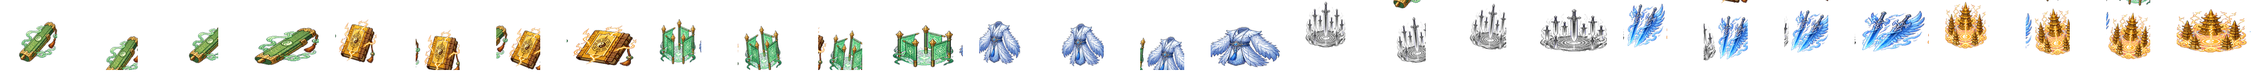
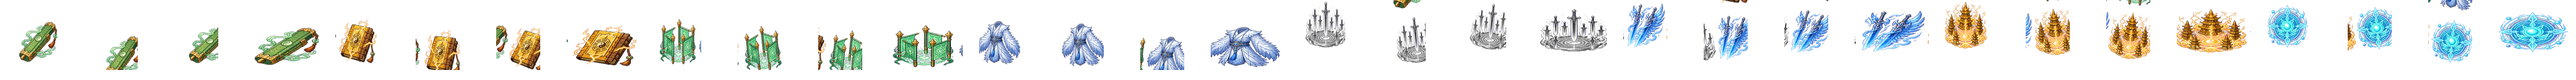
fix(战斗表现): 完善妖王与术法验收语义

diff --git a/src/game/phaser/createBattleSession.ts b/src/game/phaser/createBattleSession.ts
@@ -236,6 +236,7 @@ export class QingShiRidgeScene extends Phaser.Scene {
   private radarLabel!: Phaser.GameObjects.Text
   private spiritNodeLabels: Phaser.GameObjects.Text[] = []
   private playerSprite!: Phaser.GameObjects.Image
+  private spellPresentationSprite!: Phaser.GameObjects.Image
   private inputIntent = createInputIntent()
   private progress: RunProgress = createRunProgress()
   private player = { x: WORLD_SIZE / 2, y: WORLD_SIZE / 2, health: 100, maxHealth: 100 }
@@ -384,6 +385,11 @@ export class QingShiRidgeScene extends Phaser.Scene {
       .image(this.player.x, this.player.y, 'qingshi-actors', 0)
       .setDisplaySize(84, 84)
       .setDepth(4)
+    this.spellPresentationSprite = this.add
+      .image(this.player.x, this.player.y, 'artifact-combat-effects', 28)
+      .setDisplaySize(112, 112)
+      .setDepth(5)
+      .setVisible(false)
     this.spiritNodeLabels = this.terrainLayout.spiritNodes.map((node) => this.add.text(node.x, node.y + 36, '灵脉石坛', {
       color: '#d6d3d1',
       fontFamily: '"Noto Sans SC", sans-serif',
@@ -2172,7 +2178,7 @@ export class QingShiRidgeScene extends Phaser.Scene {
         7,
       )
       if (fountainActive) {
-        const pulse = this.reducedMotion ? 0.55 : 0.4 + Math.sin(Date.now() / 220) * 0.2
+        const pulse = this.reducedMotion ? 0.55 : 0.4 + Math.sin(this.presentationElapsedMs / 220) * 0.2
         this.graphics.fillStyle(0x22d3ee, 0.1 + pulse * 0.12).fillCircle(node.x, node.y, node.radius + 24)
         this.graphics.lineStyle(3, 0x67e8f9, 0.8).strokeCircle(node.x, node.y, node.radius + 24)
         this.graphics.lineStyle(3, 0xa7f3d0, 0.95).arc(
@@ -2188,7 +2194,7 @@ export class QingShiRidgeScene extends Phaser.Scene {
     // Render the hostile 妖巢 as an entity with a sharp silhouette, not a
     // generic red interaction circle.
     if (this.demonLair.phase === 'travel' || this.demonLair.phase === 'battle' || this.demonLair.phase === 'destroyed') {
-      const pulse = this.reducedMotion ? 0.7 : 0.55 + Math.sin(Date.now() / 200) * 0.22
+      const pulse = this.reducedMotion ? 0.7 : 0.55 + Math.sin(this.presentationElapsedMs / 200) * 0.22
       if (!this.demonLair.destroyed) {
         this.graphics.fillStyle(0x4c0519, 0.82).fillTriangle(
           this.demonLair.x - 34,
@@ -2349,6 +2355,22 @@ export class QingShiRidgeScene extends Phaser.Scene {
           symbolY + 5,
         )
       }
+    }
+    const spellVisualActive = this.shieldRemainingMs > 0
+      || this.spellCastVisualRemainingMs > 0
+      || this.spellImpactPulseRemainingMs > 0
+      || this.spellEndVisualRemainingMs > 0
+    if (spellVisualActive) {
+      const spellFrame = 28 + (this.reducedMotion ? 0 : Math.floor(this.presentationElapsedMs / 120) % 4)
+      this.spellPresentationSprite
+        .setTexture('artifact-combat-effects', spellFrame)
+        .setPosition(this.player.x, this.player.y)
+        .setDisplaySize(this.shieldRemainingMs > 0 ? 112 : 94, this.shieldRemainingMs > 0 ? 112 : 94)
+        .setAngle(this.reducedMotion ? 0 : this.presentationElapsedMs / 80)
+        .setAlpha(this.shieldRemainingMs > 0 ? 0.72 : 0.9)
+        .setVisible(true)
+    } else {
+      this.spellPresentationSprite.setVisible(false)
     }
     if (this.spellCastVisualRemainingMs > 0 || this.spellImpactPulseRemainingMs > 0 || this.spellEndVisualRemainingMs > 0) {
       const signature = resolveCombatVisualSignature('xuan-guang-hu-shen-jue')

diff --git a/src/game/domain/combatPresentation.test.ts b/src/game/domain/combatPresentation.test.ts
@@ -145,12 +145,32 @@ describe('semantic combat presentation', () => {
 
     expect(enraged.halo).toBe('cracked-moon')
     expect(enraged.textureKey).toBe('qingshi-combat-actors')
-    expect(enraged.frame).toBe(10)
+    expect(enraged.frame).toBe(11)
     expect(enraged.shadowSplit).toBe(true)
     expect(enraged.telegraph).toBe('assault-lane')
     expect(breach.halo).toBe('breach-open')
     expect(breach.moonMarkOpen).toBe(true)
     expect(breach.shake).toBe(0)
+
+    const bossIdleStart = resolveBossPresentation({
+      phase: 'combat',
+      attack: 'none',
+      introRemainingMs: 0,
+      howlRemainingMs: 0,
+      breachRemainingMs: 0,
+      elapsedMs: 0,
+      reducedMotion: false,
+    })
+    const bossIdleLater = resolveBossPresentation({
+      phase: 'combat',
+      attack: 'none',
+      introRemainingMs: 0,
+      howlRemainingMs: 0,
+      breachRemainingMs: 0,
+      elapsedMs: 240,
+      reducedMotion: false,
+    })
+    expect(bossIdleLater.frame).not.toBe(bossIdleStart.frame)
   })
 
   it('maps every implemented artifact to a source motif and a distinct macro shape', () => {
@@ -191,10 +211,12 @@ describe('semantic combat presentation', () => {
       ['opening-00-30', 30_000],
       ['surge-02-00', 120_000],
       ['event-04-00', 240_000],
-      ['boss-08-30', 510_000],
+      ['density-08-30', 510_000],
+      ['boss-10-00', 600_000],
     ])
     expect(resolveCombatPresentationCheckpoint(29_999)).toBeNull()
     expect(resolveCombatPresentationCheckpoint(30_000)?.id).toBe('opening-00-30')
-    expect(resolveCombatPresentationCheckpoint(510_000)?.id).toBe('boss-08-30')
+    expect(resolveCombatPresentationCheckpoint(510_000)?.id).toBe('density-08-30')
+    expect(resolveCombatPresentationCheckpoint(600_000)?.id).toBe('boss-10-00')
   })
 })

diff --git a/src/game/domain/combatPresentation.ts b/src/game/domain/combatPresentation.ts
@@ -345,21 +345,22 @@ export function resolveBossPresentation(input: BossPresentationInput): BossPrese
   const shake = input.reducedMotion || isArrival || impactRemainingMs <= 0
     ? 0
     : Math.sin(input.elapsedMs / 28) * (isEnraged ? 1.5 : 0.8) * Math.min(1, impactRemainingMs / 120)
+  const animationStep = input.reducedMotion ? 0 : Math.floor(Math.max(0, input.elapsedMs) / 120)
   const frame = isEnraged
     ? input.breachRemainingMs > 0
       ? 11
       : input.attack === 'assault' || input.attack === 'assault-warning'
-        ? 10
+        ? 10 + animationStep % 2
         : input.attack === 'charge' || input.attack === 'charge-warning'
-          ? 9
-          : 8
+          ? 8 + animationStep % 2
+          : 8 + animationStep % 4
+    : isArrival
+      ? 4
     : input.attack === 'assault' || input.attack === 'assault-warning'
-      ? 7
+      ? 7 + animationStep % 2
       : input.attack === 'charge' || input.attack === 'charge-warning'
-        ? 6
-        : input.phase === 'arrival'
-          ? 4
-          : 5
+        ? 6 + animationStep % 2
+        : 5 + animationStep % 3
 
   return {
     textureKey: 'qingshi-combat-actors',

diff --git a/src/game/domain/combatPresentationAcceptance.ts b/src/game/domain/combatPresentationAcceptance.ts
@@ -2,7 +2,8 @@ export type CombatPresentationCheckpointId =
   | 'opening-00-30'
   | 'surge-02-00'
   | 'event-04-00'
-  | 'boss-08-30'
+  | 'density-08-30'
+  | 'boss-10-00'
 
 export interface CombatPresentationCheckpoint {
   readonly id: CombatPresentationCheckpointId
@@ -21,7 +22,8 @@ export const QING_SHI_RIDGE_PRESENTATION_CHECKPOINTS: readonly CombatPresentatio
   { id: 'opening-00-30', elapsedMs: 30_000, label: '开局妖潮与第一轮法器动作' },
   { id: 'surge-02-00', elapsedMs: 120_000, label: '妖潮增压与精英妖物' },
   { id: 'event-04-00', elapsedMs: 240_000, label: '青石岭事件与高阶法器' },
-  { id: 'boss-08-30', elapsedMs: 510_000, label: '啸月狼王与狂月阶段' },
+  { id: 'density-08-30', elapsedMs: 510_000, label: '高密度妖潮与法器视觉干扰' },
+  { id: 'boss-10-00', elapsedMs: 600_000, label: '啸月狼王降临与阶段战斗' },
 ] as const
 
 export function resolveCombatPresentationCheckpoint(elapsedMs: number): CombatPresentationCheckpoint | null {

diff --git a/e2e/desktop.spec.ts b/e2e/desktop.spec.ts
@@ -54,6 +54,7 @@ test('unlocked 妖王演练 enters the boss directly without the mainline onboar
 })
 
 test('selects cards with number keys and exposes the full-world battle radar', async ({ page }) => {
+  test.setTimeout(60_000)
   await page.setViewportSize({ width: 1280, height: 720 })
   await page.goto('/?e2e-time=30')
   await page.getByRole('button', { name: '开始青石岭历练' }).click()
@@ -93,7 +94,8 @@ test('selects cards with number keys and exposes the full-world battle radar', a
   await page.keyboard.down('w')
   await waitForPresentationCheckpoint(page, battlefield, 'surge-02-00')
   await waitForPresentationCheckpoint(page, battlefield, 'event-04-00')
-  await waitForPresentationCheckpoint(page, battlefield, 'boss-08-30')
+  await waitForPresentationCheckpoint(page, battlefield, 'density-08-30')
+  await waitForPresentationCheckpoint(page, battlefield, 'boss-10-00')
   await page.keyboard.up('w')
 })
 
